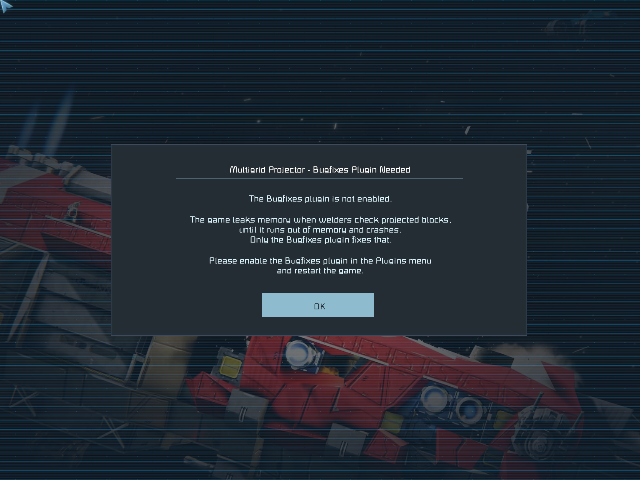
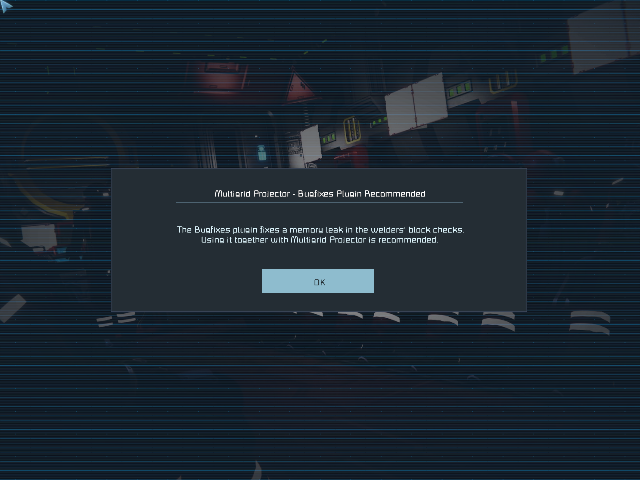
Shorter texts for the missing Bugfixes plugin warning (SE-1548)
The dialog and the log lines now say only that Bugfixes fixes a memory
leak in the welders' block checks and that using it together with
Multigrid Projector is recommended. With an old Bugfixes they say to
update to 1.19.0 or newer. The dialog's caption says Recommended
instead of Needed.

diff --git a/Shared/Utilities/BugfixesNag.cs b/Shared/Utilities/BugfixesNag.cs
@@ -19,19 +19,15 @@ namespace MultigridProjector.Utilities
         // The first Bugfixes version with the fix (CometWorks/bugfixes#44)
         public const string MinVersion = "1.19.0";
 
-        private const string Why =
-            "The game leaks Havok memory when welders check projected blocks, " +
-            "until the game runs out of memory. Only the Bugfixes plugin fixes that.";
-
         // Null if there is nothing to warn about
         public static string LogMessage(BugfixesState state)
         {
             switch (state)
             {
                 case BugfixesState.Missing:
-                    return $"The Bugfixes plugin is not loaded. {Why} Use the Bugfixes plugin ({MinVersion} or newer) together with Multigrid Projector.";
+                    return "The Bugfixes plugin is not loaded. It fixes a memory leak in the welders' block checks, so using it together with Multigrid Projector is recommended.";
                 case BugfixesState.TooOld:
-                    return $"The Bugfixes plugin is loaded without its fix of the block placement test. {Why} Update the Bugfixes plugin to {MinVersion} or newer and check its log lines for a failed patch.";
+                    return $"The Bugfixes plugin is loaded without its fix of a memory leak in the welders' block checks. Update it to {MinVersion} or newer.";
                 default:
                     return null;
             }
@@ -43,19 +39,11 @@ namespace MultigridProjector.Utilities
             switch (state)
             {
                 case BugfixesState.Missing:
-                    return "The Bugfixes plugin is not enabled.\n\n" +
-                           "The game leaks memory when welders check projected blocks,\n" +
-                           "until it runs out of memory and crashes.\n" +
-                           "Only the Bugfixes plugin fixes that.\n\n" +
-                           "Please enable the Bugfixes plugin in the Plugins menu\n" +
-                           "and restart the game.";
+                    return "The Bugfixes plugin fixes a memory leak in the welders' block checks.\n" +
+                           "Using it together with Multigrid Projector is recommended.";
                 case BugfixesState.TooOld:
-                    return "The Bugfixes plugin is enabled, but its fix of the memory leak\n" +
-                           "is not active.\n\n" +
-                           "The game leaks memory when welders check projected blocks,\n" +
-                           "until it runs out of memory and crashes.\n\n" +
-                           $"Please update the Bugfixes plugin to {MinVersion} or newer\n" +
-                           "and restart the game.";
+                    return "The Bugfixes plugin fixes a memory leak in the welders' block checks,\n" +
+                           $"but only from version {MinVersion}. Please update it.";
                 default:
                     return null;
             }

diff --git a/tests/unit/BugfixesNagTests.cs b/tests/unit/BugfixesNagTests.cs
@@ -11,13 +11,18 @@ public class BugfixesNagTests
         Assert.Null(BugfixesNag.DialogMessage(BugfixesState.Fixed));
     }
 
-    [Theory]
-    [InlineData(BugfixesState.Missing)]
-    [InlineData(BugfixesState.TooOld)]
-    public void TheWarningsNameThePluginAndItsVersion(BugfixesState state)
+    [Fact]
+    public void WithoutBugfixesTheWarningsRecommendIt()
     {
-        Assert.Contains("Bugfixes plugin", BugfixesNag.LogMessage(state));
-        Assert.Contains("1.19.0", BugfixesNag.LogMessage(state));
-        Assert.Contains("Bugfixes plugin", BugfixesNag.DialogMessage(state));
+        Assert.Contains("The Bugfixes plugin is not loaded", BugfixesNag.LogMessage(BugfixesState.Missing));
+        Assert.Contains("is recommended", BugfixesNag.LogMessage(BugfixesState.Missing));
+        Assert.Contains("is recommended", BugfixesNag.DialogMessage(BugfixesState.Missing));
+    }
+
+    [Fact]
+    public void WithAnOldBugfixesTheWarningsNameTheVersionToUpdateTo()
+    {
+        Assert.Contains("1.19.0", BugfixesNag.LogMessage(BugfixesState.TooOld));
+        Assert.Contains("1.19.0", BugfixesNag.DialogMessage(BugfixesState.TooOld));
     }
 }

diff --git a/tests/test_bugfixes_warning.py b/tests/test_bugfixes_warning.py
@@ -24,7 +24,7 @@ from bugfixes_warning import BUGFIXES, MISSING, OLD_BUGFIXES, TOO_OLD, plugin, w
 
 CLIENT = rig.Client(0)
 CONFIG = CLIENT.appdata / "Storage" / "MultigridProjector.cfg"
-CAPTION = "Bugfixes Plugin Needed"
+CAPTION = "Bugfixes Plugin Recommended"
 
 
 def start(shown: bool, plugins=()):
@@ -116,7 +116,7 @@ def test_first_start_without_bugfixes_warns_and_shows_the_dialog():
     assert "Warning" in lines[0] or "WARNING" in lines[0], lines[0]
     assert noted_as_shown()
     text = json.dumps(remote.get_controls(index))
-    assert "The Bugfixes plugin is not enabled" in text
+    assert "Using it together with Multigrid Projector is recommended" in text
 
     if rig.RENDER:
         time.sleep(2)
@@ -162,5 +162,5 @@ def test_bugfixes_without_the_fix_warns_and_shows_the_dialog():
     index = wait_dialog(remote)
     lines = log_warnings()
     assert len(lines) == 1 and TOO_OLD in lines[0], lines
-    assert "its fix of the memory leak" in json.dumps(remote.get_controls(index))
+    assert "but only from version 1.19.0" in json.dumps(remote.get_controls(index))
     assert noted_as_shown()

diff --git a/ClientPlugin/Menus/BugfixesDialog.cs b/ClientPlugin/Menus/BugfixesDialog.cs
@@ -60,8 +60,8 @@ namespace MultigridProjectorClient.Menus
             MyGuiScreenMessageBox messageBox = MyGuiSandbox.CreateMessageBox(
                 MyMessageBoxStyleEnum.Info,
                 messageText: new StringBuilder(BugfixesNag.DialogMessage(state)),
-                messageCaption: new StringBuilder("Multigrid Projector - Bugfixes Plugin Needed"),
-                size: new Vector2(0.65f, 0.4f));
+                messageCaption: new StringBuilder("Multigrid Projector - Bugfixes Plugin Recommended"),
+                size: new Vector2(0.65f, 0.3f));
 
             // Make the background color less transparent, as the default is very faint and this is an important message
             messageBox.BackgroundColor = new Vector4(1f, 1f, 1f, 10.0f);

diff --git a/Docs/Installation.md b/Docs/Installation.md
@@ -16,9 +16,9 @@ functionality for everyone on the server.
 > client and Magnetar (optionally managed by Quasar) on the server.
 
 Use the [Bugfixes](https://github.com/CometWorks/bugfixes) plugin (1.19.0 or newer) together with
-Multigrid Projector, on the client and on the server. The game leaks memory when welders check
-projected blocks, until it runs out of it, and only Bugfixes fixes that. Without it Multigrid
-Projector logs a warning on every start, and the client shows a dialog on the main menu once.
+Multigrid Projector, on the client and on the server. It fixes a memory leak in the welders' block
+checks. Without it Multigrid Projector logs a warning on every start, and the client shows a
+dialog on the main menu once.
 
 ![The dialog about the missing Bugfixes plugin](Images/bugfixes-dialog.png)
 

diff --git a/README.md b/README.md
@@ -22,9 +22,9 @@ Please consider supporting my work on [Patreon](https://www.patreon.com/semods) 
 ## Installation
 
 Use the [Bugfixes](https://github.com/CometWorks/bugfixes) plugin (1.19.0 or newer) together with
-Multigrid Projector, on the client and on the server. The game leaks memory when welders check
-projected blocks, until it runs out of it, and only Bugfixes fixes that. Without it Multigrid
-Projector logs a warning on every start, and the client shows a dialog on the main menu once.
+Multigrid Projector, on the client and on the server. It fixes a memory leak in the welders' block
+checks. Without it Multigrid Projector logs a warning on every start, and the client shows a
+dialog on the main menu once.
 
 ### Client
 
